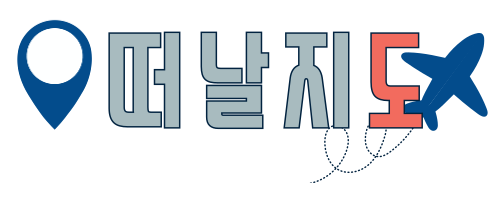
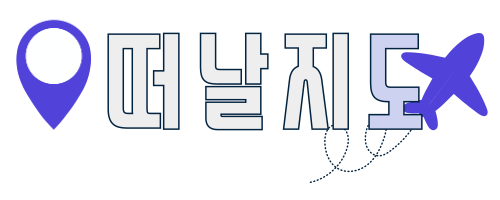
1. 로고 수정 2. 페이지 수정

diff --git a/mtl_project/src/main/webapp/css/common.css b/mtl_project/src/main/webapp/css/common.css
@@ -15,7 +15,7 @@
 }
 
 .bg-i {
-	background: #F2E8DC;
+	background: #eeebf2;
 }
 
 .area-icon:hover {
@@ -23,15 +23,15 @@
 }
 
 .area-icon:hover .stretched-link {
-	color: #034C8C;
+	color: #5143d9;
 }
 
 .area-icon:hover .rounded-circle {
-	box-shadow: 0 0 0 8px #F26B5E;
+	box-shadow: 0 0 0 8px #5143d9;
 }
 
 .more-hover:hover {
-	color: #ed4d3e;
+	color: #5143d9;
 }
 
 .partner-card:hover {
@@ -83,17 +83,16 @@
   color: var(--bs-success);
   border: 1px solid var(--bs-success);
 }
-
-.accordion.accordion-bg-success .accordion-item {
+*/
+.accordion.accordion-bg-secondary .accordion-item {
   border: none;
   background-color: transparent;
 }
-.accordion.accordion-bg-success .accordion-button {
-  background-color: #fce8e6 !important;
-  color: var(--bs-success-text-emphasis) !important;
+.accordion.accordion-bg-secondary .accordion-button {
+  background-color: var(--bs-secondary-bg-subtle) !important;
+  color: var(--bs-secondary-text-emphasis) !important;
 }
-.accordion.accordion-bg-success .accordion-button:not(.collapsed) {
+.accordion.accordion-bg-secondary .accordion-button:not(.collapsed) {
   -webkit-box-shadow: none !important;
           box-shadow: none !important;
 }
-*/
